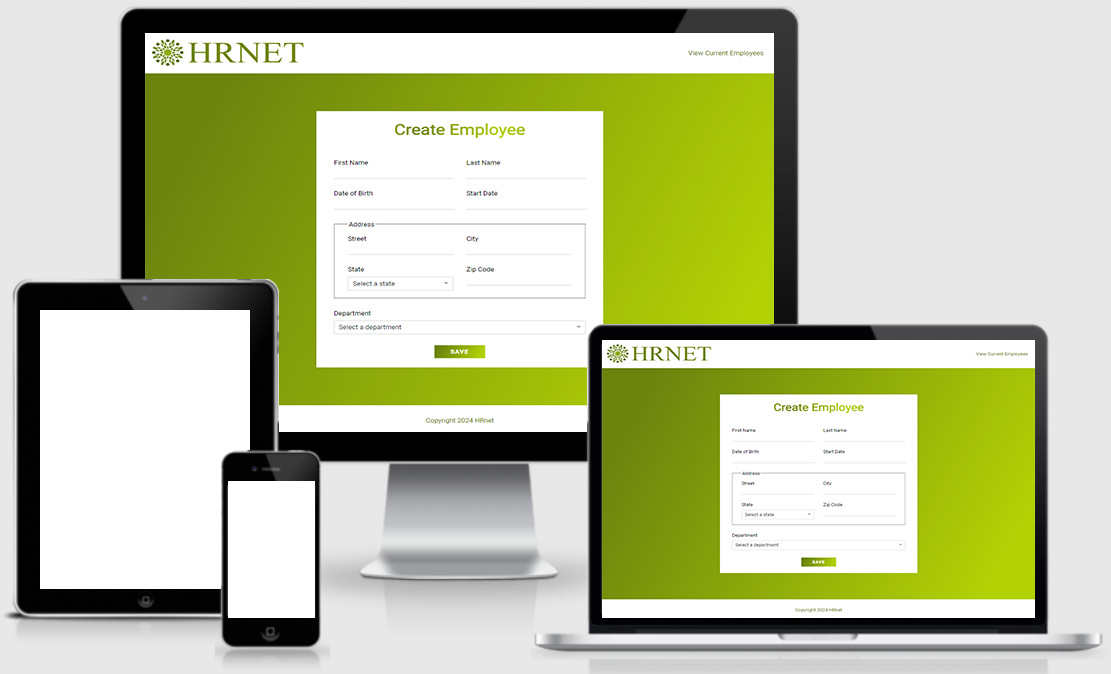
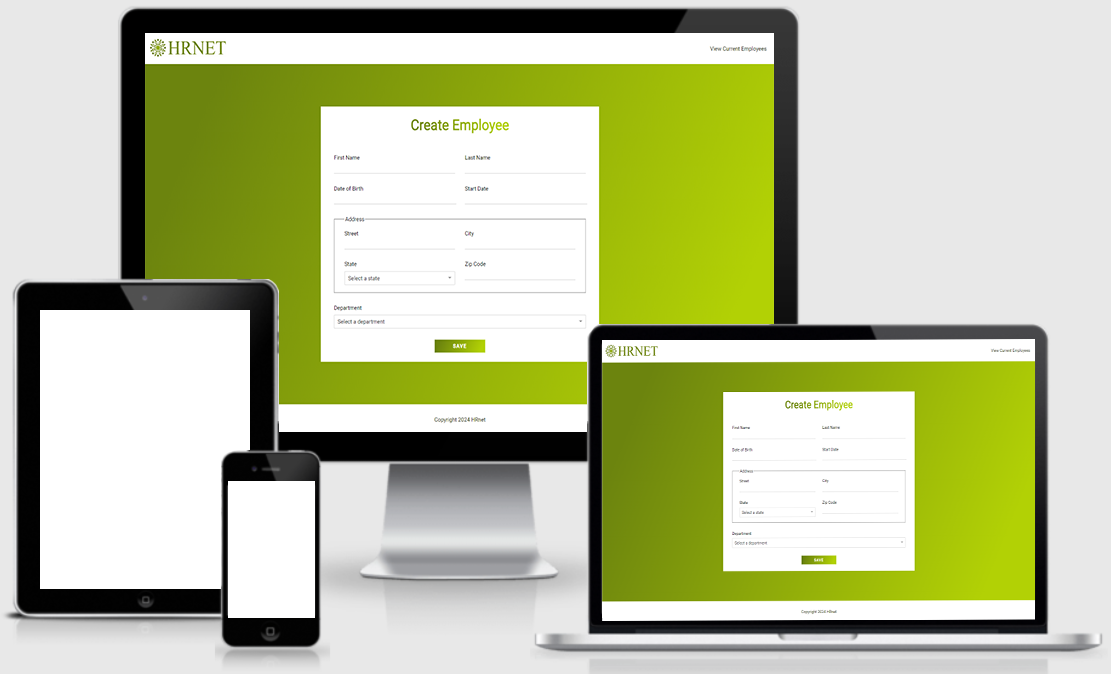
Correctifs rapport lighthouse

Changed region(s): [[0.2754, 0.1558, 0.9487, 0.9347], [0.1224, 0.0623, 0.7039, 0.1246], [0.3672, 0.592, 0.459, 0.6543]]

diff --git a/src/pages/Home/Home.jsx b/src/pages/Home/Home.jsx
@@ -69,11 +69,11 @@ function Home() {
                     <div className="home_container_form_littleContainer">
                         <div className="home_container_form_dateOfBirth">
                             <label htmlFor="date_of_birth">Date of Birth</label>
-                            <DatePicker selected={dateOfBirth} onChange={handleDateOfBirthChange} />
+                            <DatePicker id="date_of_birth" selected={dateOfBirth} onChange={handleDateOfBirthChange} />
                         </div>
                         <div className="home_container_form_startDate">
                             <label htmlFor="start_date">Start Date</label>
-                            <DatePicker selected={startDate} onChange={handleStartDateChange} />
+                            <DatePicker id="start_date" selected={startDate} onChange={handleStartDateChange} />
                         </div>
                     </div>
                     <fieldset className="home_container_form_fieldset">

diff --git a/src/components/Header/Header.jsx b/src/components/Header/Header.jsx
@@ -1,4 +1,4 @@
-import Logo from "../../assets/images/hrnetLogo.png";
+import Logo from "../../assets/images/hrnetLogo.svg";
 import "./Header.scss";
 import { Link } from "react-router-dom";
 

diff --git a/src/components/Header/Header.scss b/src/components/Header/Header.scss
@@ -11,6 +11,6 @@
         margin-right: 10px;
     }
     &_logo {
-        height: 75px;
+        height: 50px;
     }
 }

diff --git a/src/style/Utils/Variables.scss b/src/style/Utils/Variables.scss
@@ -1,2 +1,2 @@
 $primary-color: #fff;
-$secondary-color: #6c840e;
+$secondary-color: #222a04;
